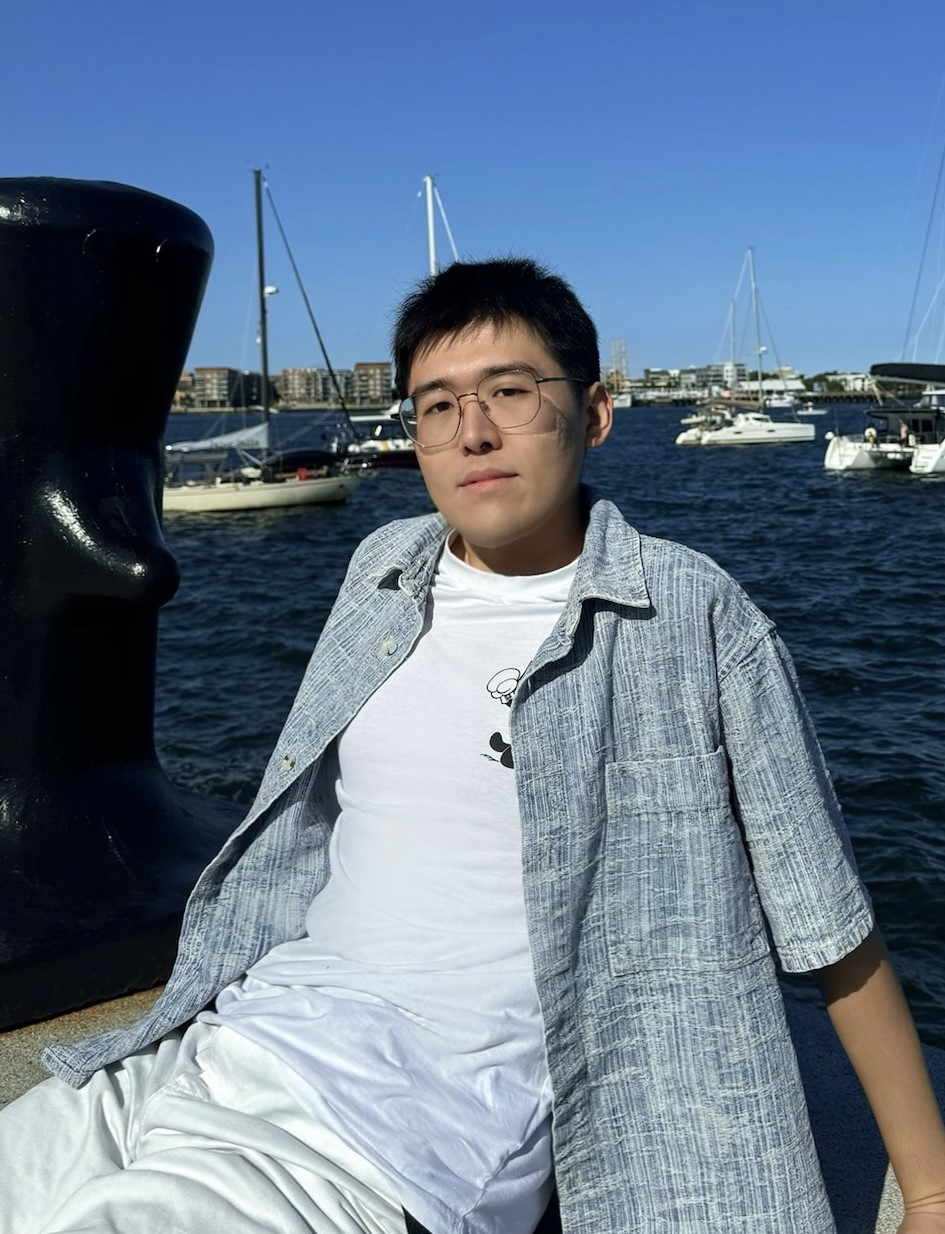
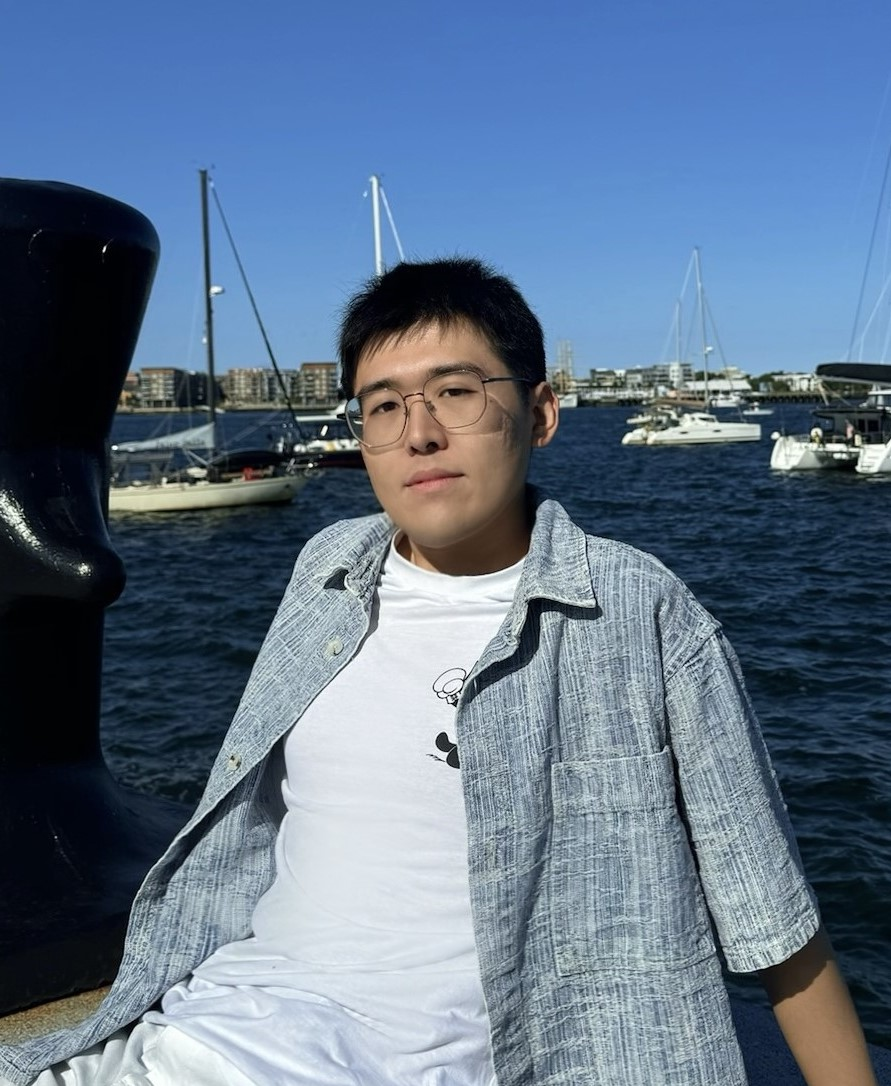
Updated new phd student profiles

diff --git a/studs.html b/studs.html
@@ -341,7 +341,7 @@ ss += '<table class="colorBlock">';
 ss += '<tr><td class="cbHeading">';
 ss += 'Shixuan Li</td></tr>';
 ss += '<tr><td class="image">';
-ss += '<img class="round" src="pics/Shixuan.jpg" alt="Shixuan" style="width:180px;height:auto;" /></td></tr>';
+ss += '<img class="round" src="pics/Shixuan.jpg" alt="Shixuan" style="width:180px;height:180px;" /></td></tr>';
 ss += '<tr><td class="bottomText">';
 ss += 'PhD Student';
 ss += '</td></tr>';
@@ -355,7 +355,7 @@ ss += '<table class="colorBlock">';
 ss += '<tr><td class="cbHeading">';
 ss += 'Gengshuo Liu</td></tr>';
 ss += '<tr><td class="image">';
-ss += '<img class="round" src="pics/gengshuo.jpg" alt="Gengshuo" style="width:180px;height:auto;" /></td></tr>';
+ss += '<img class="round" src="pics/gengshuo.jpg" alt="Gengshuo" style="width:180px;height:180px;" /></td></tr>';
 ss += '<tr><td class="bottomText">';
 ss += 'PhD Student';
 ss += '</td></tr>';
